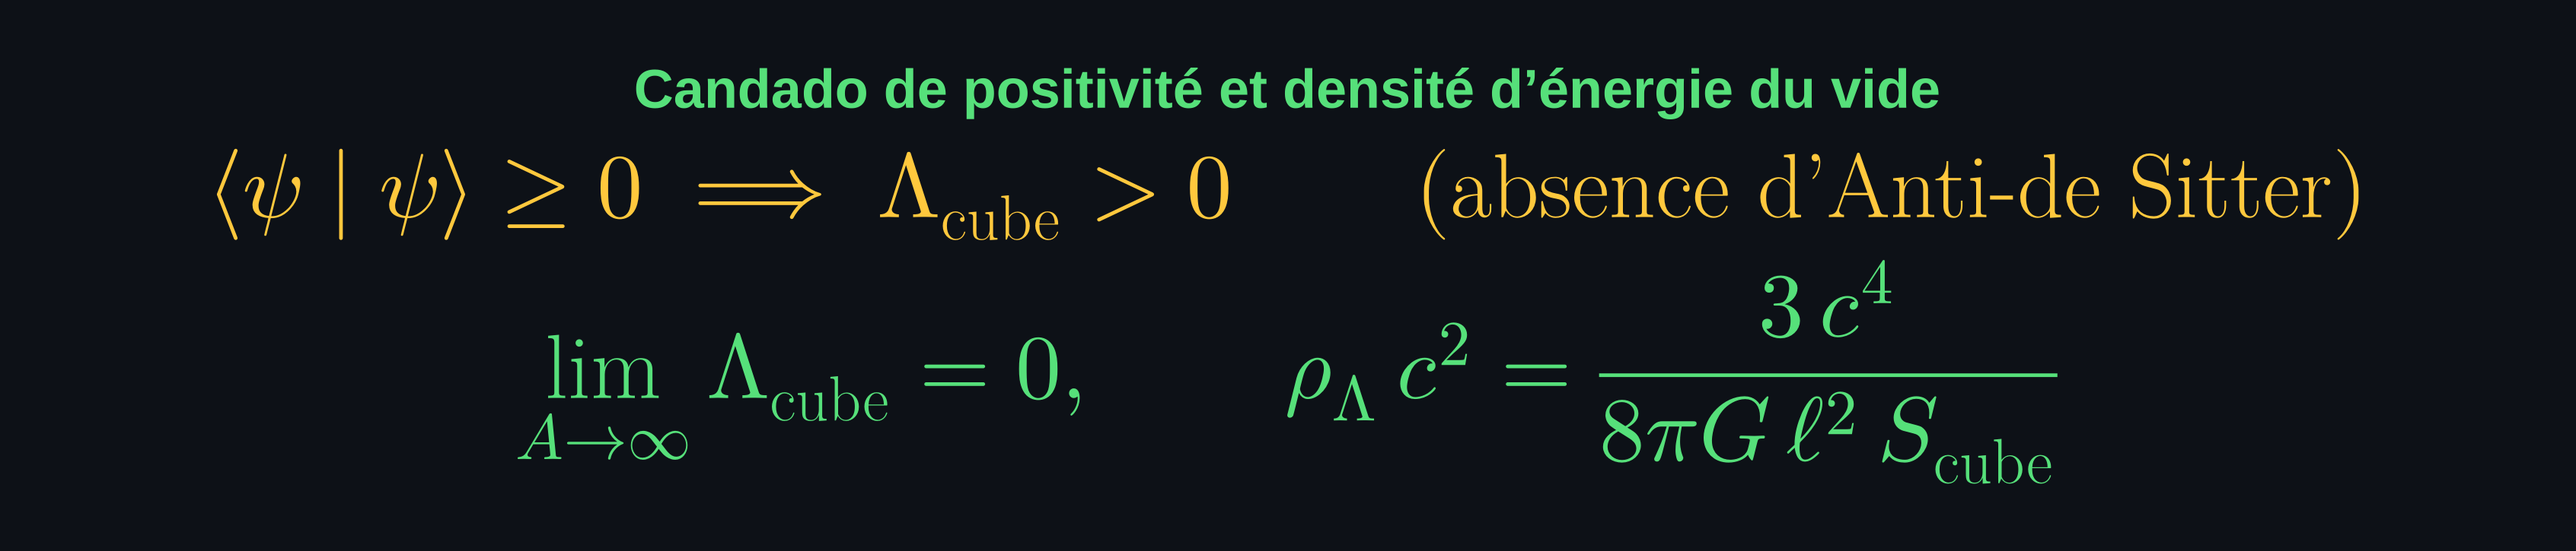
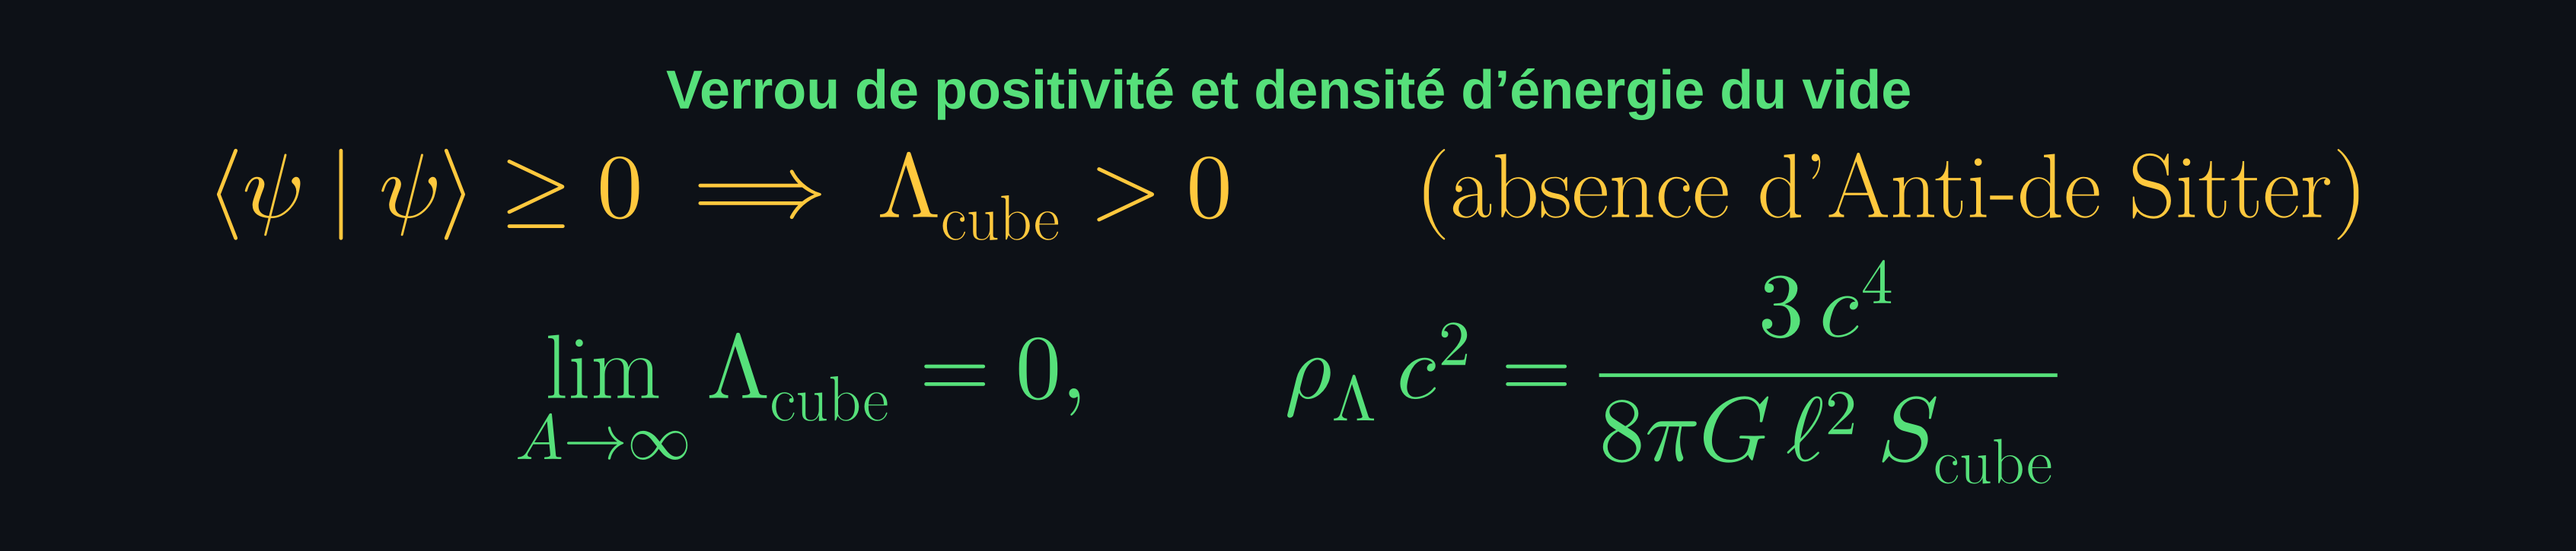
docs(readme): verrou de positivité, RS^N³ dans le titre, Physlib avant le catalogue

Changed region(s): [[0.2482, 0.1214, 0.7757, 0.2124]]

diff --git a/README.md b/README.md
@@ -1,7 +1,7 @@
 <div align="center">
 
 # RS³ · de Sitter : la constante cosmologique sur le cube ouvert
-### Loi d'aire discrète sur ℋ_dx ⊗ ℋ_dy ⊗ ℋ_dz, accélération de Friedmann et candado de positivité
+### Loi d'aire discrète sur ℋ_dx ⊗ ℋ_dy ⊗ ℋ_dz, accélération de Friedmann et verrou de positivité
 
 **Eduardo Nava Hernández**  
 *Vérification formelle certifiée en Lean 4 · 0 sorry · Physlib (Cosmology.FLRW)*
@@ -28,7 +28,7 @@
 >
 > **2 · Équations de Friedmann vérifiées.** La constante induite Λ_cube = 3π / (ℓ² S_cube) résout exactement les deux équations de Friedmann de FLRW sous accélération positive stricte ä/a = H² > 0.
 >
-> **3 · Candado de positivité algébrique.** La positivité de la norme hilbertienne ⟨ψ|ψ⟩ ≥ 0 interdit tout défaut négatif : la constante cosmologique est strictement positive (Λ_cube > 0), excluant toute géométrie Anti-de Sitter.
+> **3 · Verrou de positivité algébrique.** La positivité de la norme hilbertienne ⟨ψ|ψ⟩ ≥ 0 interdit tout défaut négatif : la constante cosmologique est strictement positive (Λ_cube > 0), excluant toute géométrie Anti-de Sitter.
 >
 > **4 · Comportement asymptotique.** Lorsque l'aire transverse grandit vers l'infini, Λ_cube décroît strictement vers 0, limite asymptotique qu'aucun cube fini ne peut atteindre.
 
@@ -85,33 +85,15 @@ Ce dépôt établit la théorie constructive de l'horizon de de Sitter et des é
 
 ---
 
-### Étape 4 : Candado de positivité et décroissance asymptotique
+### Étape 4 : Verrou de positivité et décroissance asymptotique
 
 > **Proposition 4.1 (Positivité stricte et absence d'Anti-de Sitter).** La positivité du produit interne hilbertien garantit que le défaut géométrique est toujours positif ou nul. La constante cosmologique du cube est strictement positive (Λ_cube > 0) pour toute boîte finie, et tend vers zéro lorsque l'aire transverse grandit vers l'infini.
 
-<div align="center"><picture><source media="(prefers-color-scheme: dark)" srcset="assets/oscuro/plaque_desitter_etape4.png"><img src="assets/claro/plaque_desitter_etape4.png" alt="Étape 4 : Candado de positivité et décroissance asymptotique" width="860"></picture></div>
+<div align="center"><picture><source media="(prefers-color-scheme: dark)" srcset="assets/oscuro/plaque_desitter_etape4.png"><img src="assets/claro/plaque_desitter_etape4.png" alt="Étape 4 : Verrou de positivité et décroissance asymptotique" width="860"></picture></div>
 
 *Module formel :* [`NRS3DeSitter/CubeHorizon.lean`](NRS3DeSitter/CubeHorizon.lean) (`cubeCosmologicalConstant_pos`, `cubeCosmologicalConstant_strictAnti_area`, `tendsto_cubeCosmologicalConstant_area`).  
 *Module formel (énergie du vide) :* [`NRS3DeSitter/VacuumLagrangian.lean`](NRS3DeSitter/VacuumLagrangian.lean) (`einsteinHilbertLambdaDensity_zero`, `vacuumEnergyDensity_entropyCosmologicalConstant`, `vacuumEnergyDensity_entropyCosmologicalConstant_strictAntiOn`).  
 *Démonstration :* Propriété de positivité de la fonction logarithme sur le nombre de liaisons de coupure.
-
----
-
-## 🔬 Catalogue des modules formels
-
-| Fichier Lean | Théorème principal | Portée mathématique | Statut |
-|:---|:---|:---|:---:|
-| [`NRS3DeSitter/CubeHorizon.lean`](NRS3DeSitter/CubeHorizon.lean) | `cubeEntropy_eq_area_mul` | Loi d'aire transverse sur le cube ouvert 3D | **0 sorry** |
-| [`NRS3DeSitter/CubeHorizon.lean`](NRS3DeSitter/CubeHorizon.lean) | `cubeCosmologicalConstant_firstOrderFriedmann` | Première équation de Friedmann résolue | **0 sorry** |
-| [`NRS3DeSitter/CubeHorizon.lean`](NRS3DeSitter/CubeHorizon.lean) | `cubeCosmologicalConstant_secondOrderFriedmann` | Deuxième équation de Friedmann (ä > 0) | **0 sorry** |
-| [`NRS3DeSitter/CubeHorizon.lean`](NRS3DeSitter/CubeHorizon.lean) | `cubeCosmologicalConstant_pos` | Candado de positivité (Λ > 0 strict) | **0 sorry** |
-| [`NRS3DeSitter/DeSitterHorizon.lean`](NRS3DeSitter/DeSitterHorizon.lean) | `deSitterHorizonArea_eq` | Aire A = 12π/Λ et rayon de Hubble r_H | **0 sorry** |
-| [`NRS3DeSitter/DeSitterHorizon.lean`](NRS3DeSitter/DeSitterHorizon.lean) | `cosmologicalConstant_eq_of_deSitterEntropy` | Inversion exacte Λ = 3π / (ℓ² S) | **0 sorry** |
-| [`NRS3DeSitter/VacuumLagrangian.lean`](NRS3DeSitter/VacuumLagrangian.lean) | `vacuumEnergyDensity_entropyCosmologicalConstant` | Densité d'énergie de vide ρ_Λ c² | **0 sorry** |
-| [`NRS3DeSitter/HorizonCount.lean`](NRS3DeSitter/HorizonCount.lean) | `numCross_eq` | Nombre de liaisons transverses M | **0 sorry** |
-| [`NRS3DeSitter/HorizonCount.lean`](NRS3DeSitter/HorizonCount.lean) | `blind_below_rupture` | Annulation du défaut en d ≤ 3 | **0 sorry** |
-| [`NRS3DeSitter/StateCondition.lean`](NRS3DeSitter/StateCondition.lean) | `floor_eq` | Plancher de Robertson du cube 3D | **0 sorry** |
-| [`NRS3DeSitter/StateCondition.lean`](NRS3DeSitter/StateCondition.lean) | `det_four` | Excès de déterminant à la taille 4 × 4 × 4 | **0 sorry** |
 
 ---
 
@@ -125,6 +107,24 @@ Ce dépôt établit la théorie constructive de l'horizon de de Sitter et des é
 | **#1718** | `TightBindingChain/Saturation` | Égalité de Robertson–Schrödinger ssi d ≤ 3 | **MERGED** |
 | **#1734** | `TightBindingChain/LongChainLimit` | Convergence vers la limite de Szegő | **MERGED** |
 | **#1735** | `TightBindingChain/LongChainMonotonicity` | Monotonie stricte de C_N dès d ≥ 4 | **MERGED** |
+
+---
+
+## 🔬 Catalogue des modules formels
+
+| Fichier Lean | Théorème principal | Portée mathématique | Statut |
+|:---|:---|:---|:---:|
+| [`NRS3DeSitter/CubeHorizon.lean`](NRS3DeSitter/CubeHorizon.lean) | `cubeEntropy_eq_area_mul` | Loi d'aire transverse sur le cube ouvert 3D | **0 sorry** |
+| [`NRS3DeSitter/CubeHorizon.lean`](NRS3DeSitter/CubeHorizon.lean) | `cubeCosmologicalConstant_firstOrderFriedmann` | Première équation de Friedmann résolue | **0 sorry** |
+| [`NRS3DeSitter/CubeHorizon.lean`](NRS3DeSitter/CubeHorizon.lean) | `cubeCosmologicalConstant_secondOrderFriedmann` | Deuxième équation de Friedmann (ä > 0) | **0 sorry** |
+| [`NRS3DeSitter/CubeHorizon.lean`](NRS3DeSitter/CubeHorizon.lean) | `cubeCosmologicalConstant_pos` | Verrou de positivité (Λ > 0 strict) | **0 sorry** |
+| [`NRS3DeSitter/DeSitterHorizon.lean`](NRS3DeSitter/DeSitterHorizon.lean) | `deSitterHorizonArea_eq` | Aire A = 12π/Λ et rayon de Hubble r_H | **0 sorry** |
+| [`NRS3DeSitter/DeSitterHorizon.lean`](NRS3DeSitter/DeSitterHorizon.lean) | `cosmologicalConstant_eq_of_deSitterEntropy` | Inversion exacte Λ = 3π / (ℓ² S) | **0 sorry** |
+| [`NRS3DeSitter/VacuumLagrangian.lean`](NRS3DeSitter/VacuumLagrangian.lean) | `vacuumEnergyDensity_entropyCosmologicalConstant` | Densité d'énergie de vide ρ_Λ c² | **0 sorry** |
+| [`NRS3DeSitter/HorizonCount.lean`](NRS3DeSitter/HorizonCount.lean) | `numCross_eq` | Nombre de liaisons transverses M | **0 sorry** |
+| [`NRS3DeSitter/HorizonCount.lean`](NRS3DeSitter/HorizonCount.lean) | `blind_below_rupture` | Annulation du défaut en d ≤ 3 | **0 sorry** |
+| [`NRS3DeSitter/StateCondition.lean`](NRS3DeSitter/StateCondition.lean) | `floor_eq` | Plancher de Robertson du cube 3D | **0 sorry** |
+| [`NRS3DeSitter/StateCondition.lean`](NRS3DeSitter/StateCondition.lean) | `det_four` | Excès de déterminant à la taille 4 × 4 × 4 | **0 sorry** |
 
 ---
 
